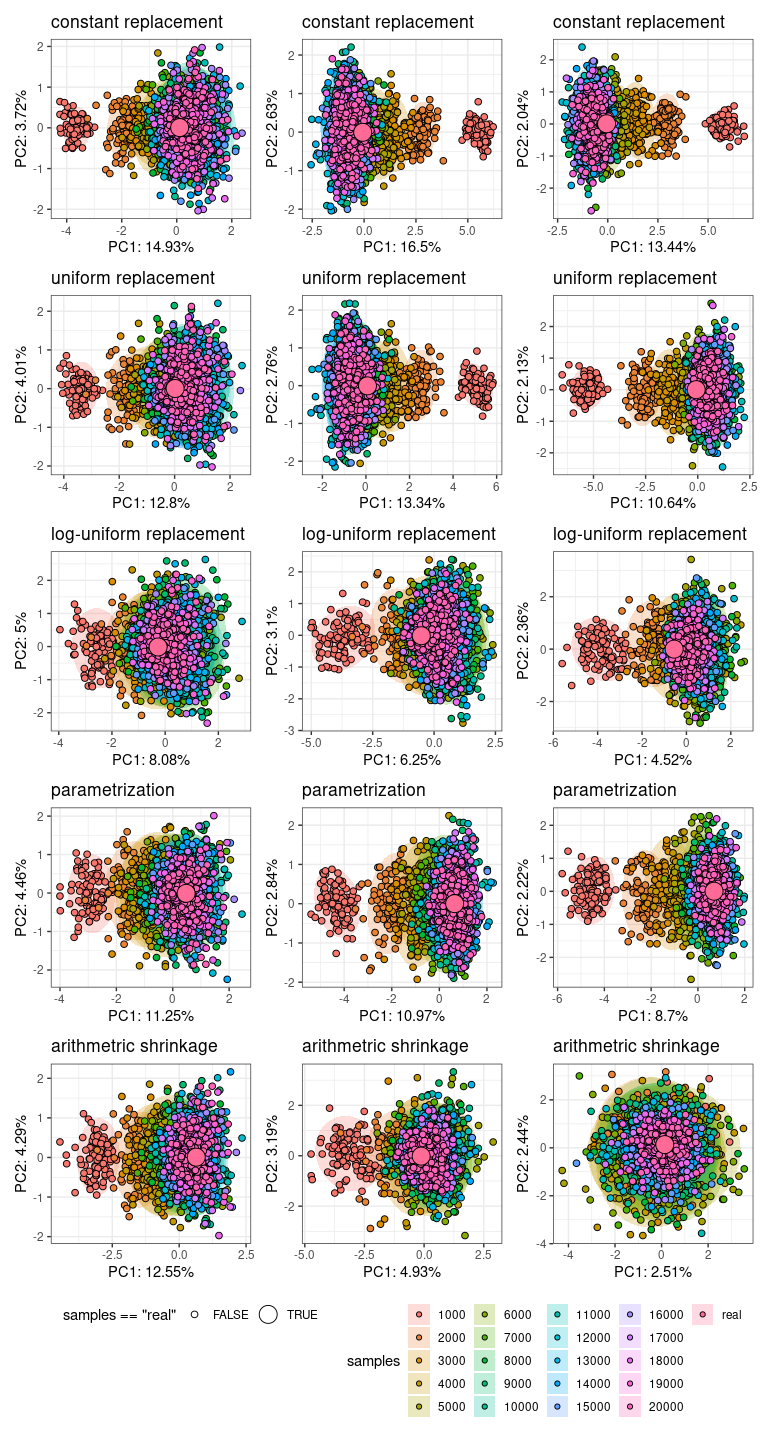
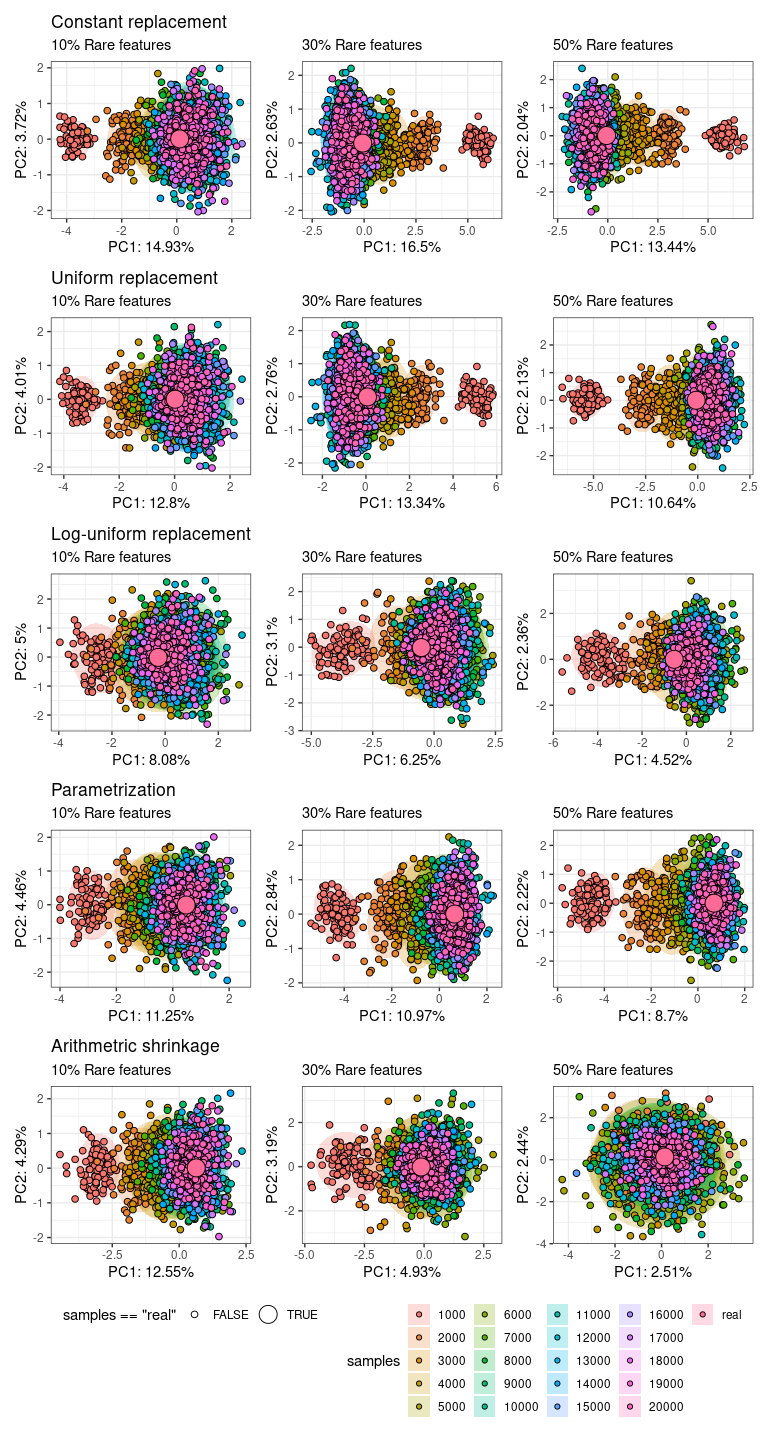
updated PCA labels

diff --git a/docs/permanova.md b/docs/permanova.md
@@ -483,7 +483,7 @@ const_b1 = ggplot(pca) +
   #Adjust appearance
   
   #Adjust labels
-  ggtitle("constant replacement") + 
+  ggtitle("Constant replacement", subtitle = "10% Rare features") + 
   xlab(paste("PC1: ", pc1,  "%", sep="")) + 
   ylab(paste("PC2: ", pc2,  "%", sep="")) +
   theme_bw() +
@@ -522,7 +522,7 @@ new_b1 = ggplot(pca) +
   #Adjust appearance
   
   #Adjust labels
-  ggtitle("parametrization") + 
+  ggtitle("Parametrization", subtitle = "10% Rare features") + 
   xlab(paste("PC1: ", pc1,  "%", sep="")) + 
   ylab(paste("PC2: ", pc2,  "%", sep="")) +
   theme_bw() +
@@ -563,7 +563,7 @@ shrunk_b1 = ggplot(pca) +
   #Adjust appearance
   
   #Adjust labels
-  ggtitle("arithmetric shrinkage") + 
+  ggtitle("Arithmetric shrinkage", subtitle = "10% Rare features") + 
   xlab(paste("PC1: ", pc1,  "%", sep="")) + 
   ylab(paste("PC2: ", pc2,  "%", sep="")) +
   theme_bw() +
@@ -603,7 +603,7 @@ unif_b1 = ggplot(pca) +
   #Adjust appearance
   
   #Adjust labels
-  ggtitle("uniform replacement") + 
+  ggtitle("Uniform replacement", subtitle = "10% Rare features") + 
   xlab(paste("PC1: ", pc1,  "%", sep="")) + 
   ylab(paste("PC2: ", pc2,  "%", sep="")) +
   theme_bw() +
@@ -642,7 +642,7 @@ logunif_b1 = ggplot(pca) +
   #Adjust appearance
   
   #Adjust labels
-  ggtitle("log-uniform replacement") + 
+  ggtitle("Log-uniform replacement", subtitle = "10% Rare features") + 
   xlab(paste("PC1: ", pc1,  "%", sep="")) + 
   ylab(paste("PC2: ", pc2,  "%", sep="")) +
   theme_bw() +
@@ -681,7 +681,8 @@ const_b2 = ggplot(pca) +
   #Adjust appearance
   
   #Adjust labels
-  ggtitle("constant replacement") + 
+  #ggtitle("constant replacement") + 
+  ggtitle("", subtitle = "30% Rare features") +
   xlab(paste("PC1: ", pc1,  "%", sep="")) + 
   ylab(paste("PC2: ", pc2,  "%", sep="")) +
   theme_bw() +
@@ -720,7 +721,8 @@ new_b2 = ggplot(pca) +
   #Adjust appearance
   
   #Adjust labels
-  ggtitle("parametrization") + 
+  #ggtitle("constant replacement") + 
+  ggtitle("", subtitle = "30% Rare features") +
   xlab(paste("PC1: ", pc1,  "%", sep="")) + 
   ylab(paste("PC2: ", pc2,  "%", sep="")) +
   theme_bw() +
@@ -761,7 +763,8 @@ shrunk_b2 = ggplot(pca) +
   #Adjust appearance
   
   #Adjust labels
-  ggtitle("arithmetric shrinkage") + 
+    #ggtitle("constant replacement") + 
+  ggtitle("", subtitle = "30% Rare features") +
   xlab(paste("PC1: ", pc1,  "%", sep="")) + 
   ylab(paste("PC2: ", pc2,  "%", sep="")) +
   theme_bw() +
@@ -800,8 +803,9 @@ unif_b2 = ggplot(pca) +
              aes(size = samples == "real")) + 
   #Adjust appearance
   
-  #Adjust labels
-  ggtitle("uniform replacement") + 
+  #Adjust labels  
+  #ggtitle("constant replacement") + 
+  ggtitle("", subtitle = "30% Rare features") +
   xlab(paste("PC1: ", pc1,  "%", sep="")) + 
   ylab(paste("PC2: ", pc2,  "%", sep="")) +
   theme_bw() +
@@ -840,7 +844,8 @@ logunif_b2 = ggplot(pca) +
   #Adjust appearance
   
   #Adjust labels
-  ggtitle("log-uniform replacement") + 
+    #ggtitle("constant replacement") + 
+  ggtitle("", subtitle = "30% Rare features") +
   xlab(paste("PC1: ", pc1,  "%", sep="")) + 
   ylab(paste("PC2: ", pc2,  "%", sep="")) +
   theme_bw() +
@@ -879,7 +884,8 @@ const_b3 = ggplot(pca) +
   #Adjust appearance
   
   #Adjust labels
-  ggtitle("constant replacement") + 
+    #ggtitle("constant replacement") + 
+  ggtitle("", subtitle = "50% Rare features") +
   xlab(paste("PC1: ", pc1,  "%", sep="")) + 
   ylab(paste("PC2: ", pc2,  "%", sep="")) +
   theme_bw() +
@@ -918,7 +924,8 @@ new_b3 = ggplot(pca) +
   #Adjust appearance
   
   #Adjust labels
-  ggtitle("parametrization") + 
+  #ggtitle("parametrization") + 
+  ggtitle("", subtitle = "50% Rare features") +
   xlab(paste("PC1: ", pc1,  "%", sep="")) + 
   ylab(paste("PC2: ", pc2,  "%", sep="")) +
   theme_bw() +
@@ -959,7 +966,8 @@ shrunk_b3 = ggplot(pca) +
   #Adjust appearance
   
   #Adjust labels
-  ggtitle("arithmetric shrinkage") + 
+  #ggtitle("parametrization") + 
+  ggtitle("", subtitle = "50% Rare features") +
   xlab(paste("PC1: ", pc1,  "%", sep="")) + 
   ylab(paste("PC2: ", pc2,  "%", sep="")) +
   theme_bw() +
@@ -999,7 +1007,8 @@ unif_b3 = ggplot(pca) +
   #Adjust appearance
   
   #Adjust labels
-  ggtitle("uniform replacement") + 
+  #ggtitle("parametrization") + 
+  ggtitle("", subtitle = "50% Rare features") +
   xlab(paste("PC1: ", pc1,  "%", sep="")) + 
   ylab(paste("PC2: ", pc2,  "%", sep="")) +
   theme_bw() +
@@ -1038,7 +1047,8 @@ logunif_b3 = ggplot(pca) +
   #Adjust appearance
   
   #Adjust labels
-  ggtitle("log-uniform replacement") + 
+  #ggtitle("parametrization") + 
+  ggtitle("", subtitle = "50% Rare features") +
   xlab(paste("PC1: ", pc1,  "%", sep="")) + 
   ylab(paste("PC2: ", pc2,  "%", sep="")) +
   theme_bw() +
@@ -1046,11 +1056,11 @@ logunif_b3 = ggplot(pca) +
 ```
 
 ``` r
-  (const_b1   | const_b2   | const_b3)/
-  (unif_b1    | unif_b2    | unif_b3)/
-  (logunif_b1 | logunif_b2 | logunif_b3)/
-  (new_b1     | new_b2     | new_b3)/
-  (shrunk_b1  | shrunk_b2  | shrunk_b3) +
+  ((const_b1   | const_b2   | const_b3)   )/
+  ((unif_b1    | unif_b2    | unif_b3)    )/
+  ((logunif_b1 | logunif_b2 | logunif_b3) )/
+  ((new_b1     | new_b2     | new_b3)     )/
+  ((shrunk_b1  | shrunk_b2  | shrunk_b3)  ) +
   patchwork::plot_layout(guides = 'collect')  & theme(legend.position = 'bottom')
 ```
 
